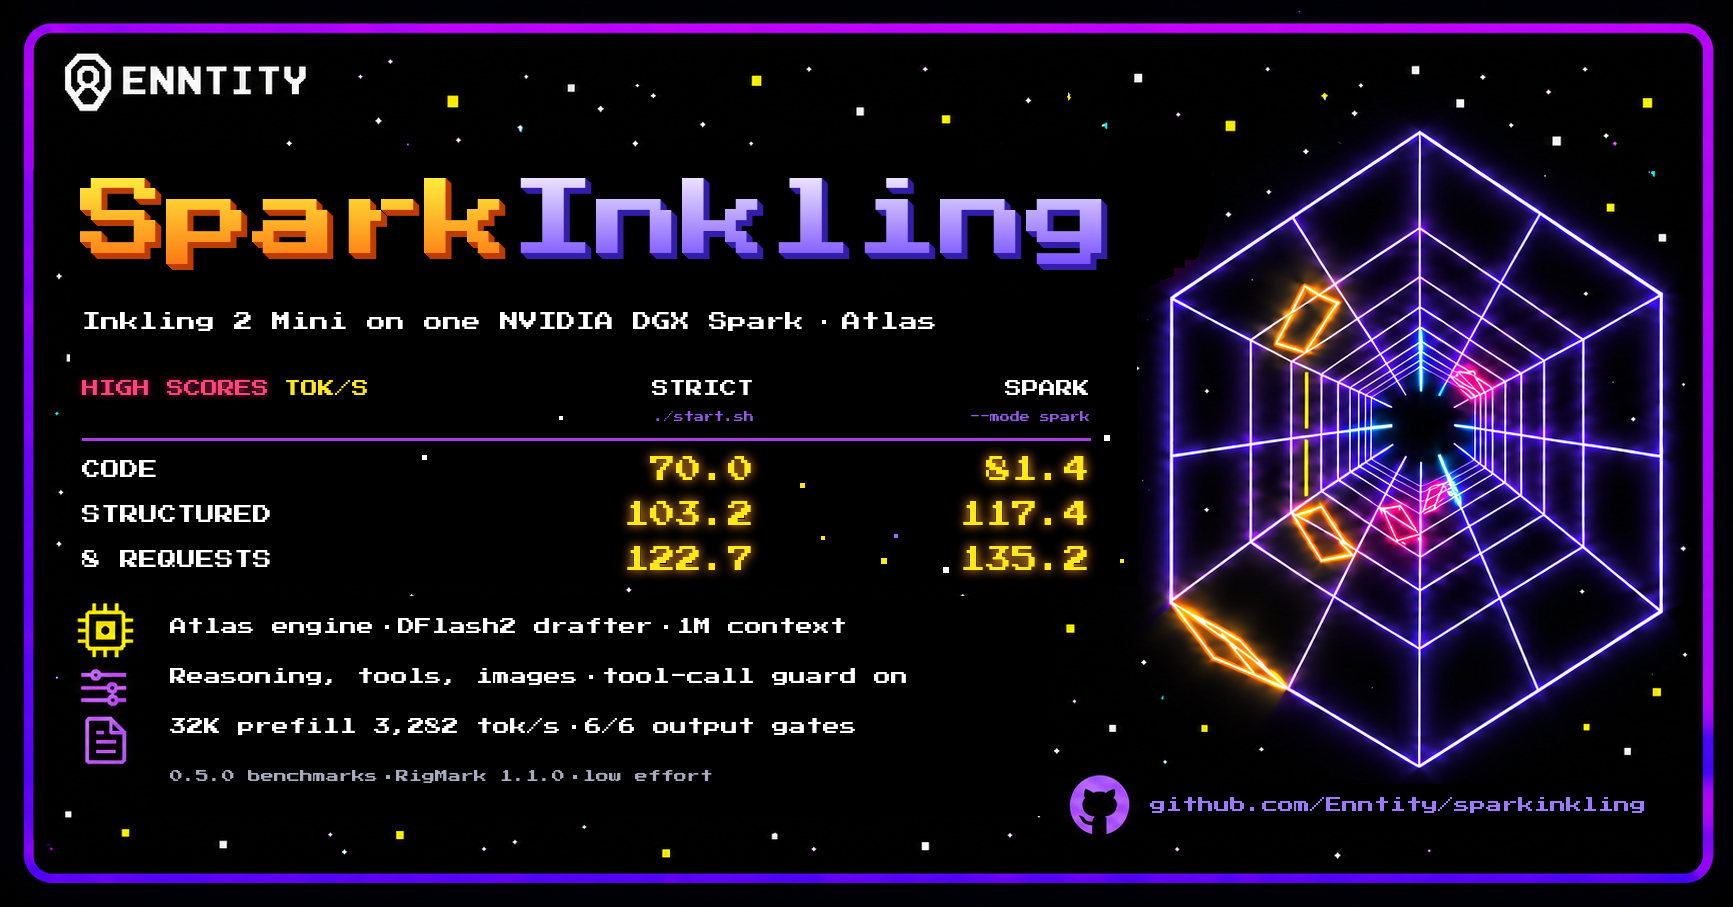
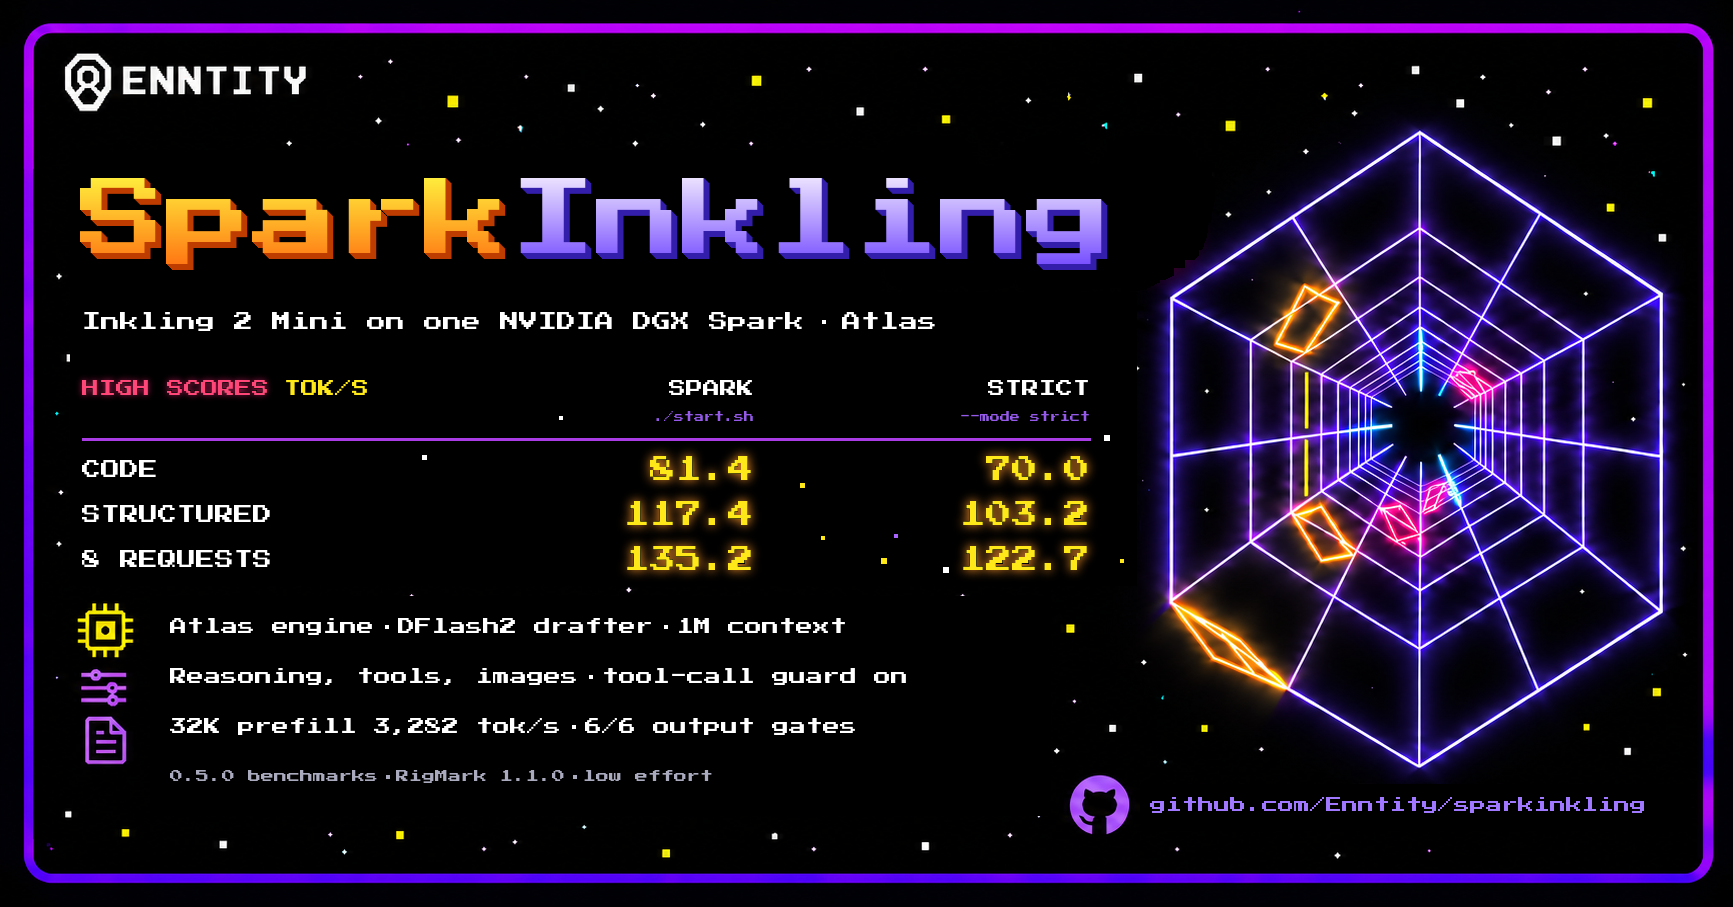
Default to Spark mode
Spark, the calibrated NVFP4 overlay, is the product's preferred stack: it
decodes faster than Strict in every measured cell for a KL of 0.0081. Strict
was the default only because the overlay was unpublished at 0.1.0.

start.sh and the image's entry point (SPARKINKLING_MODE unset) now serve
Spark; --mode strict / MODE=strict serve the checkpoint as shipped. The
launcher's check for an unpublished overlay is gone (it is pinned). README,
MODES, the manual install, the bench and reproduce commands and the cards
lead with Spark; the cards are re-rendered with Spark in the first column.

diff --git a/install/test_launch.py b/install/test_launch.py
@@ -86,8 +86,8 @@ class Launch(unittest.TestCase):
                 launch(**bad)
 
     def test_modes(self):
-        self.assertEqual(launch()[1]['SPARKINKLING_MODE'], 'strict')  # the default
-        self.assertEqual(launch(SPARKINKLING_MODE='spark')[1]['SPARKINKLING_MODE'], 'spark')
+        self.assertEqual(launch()[1]['SPARKINKLING_MODE'], 'spark')  # the default
+        self.assertEqual(launch(SPARKINKLING_MODE='strict')[1]['SPARKINKLING_MODE'], 'strict')
         with self.assertRaises(ValueError):
             launch(SPARKINKLING_MODE='fast')
 
@@ -101,7 +101,7 @@ class Launch(unittest.TestCase):
             launch(SPARKINKLING_DRAFTER='dspark')  # removed in 0.5.0
 
     def test_strict_drafts_for_up_to_two_requests(self):
-        argv, env = launch()
+        argv, env = launch(SPARKINKLING_MODE='strict')
         self.assertIn('--dflash', argv)
         self.assertEqual(flag(argv, '--draft-model'), DRAFTER)
         self.assertEqual(flag(argv, '--dflash-gamma'), '8')
@@ -117,7 +117,7 @@ class Launch(unittest.TestCase):
             launch(DRAFTER_PATH='relative/dir')
 
     def test_spark_drafts_alone(self):
-        _, env = launch(SPARKINKLING_MODE='spark')
+        _, env = launch()  # Spark is the default
         self.assertEqual(env['ATLAS_DFLASH_BATCH_DEPTH'], '1:7,1000000:0')
         self.assertEqual(env['ATLAS_DFLASH_ADAPTIVE'], '1')
         self.assertNotIn('ATLAS_DFLASH_ADAPTIVE_MIN', env)  # the engine's 2.0
@@ -241,7 +241,7 @@ class StartScript(unittest.TestCase):
         return result, (root/'calls').read_text() if (root/'calls').exists() else '', checkpoint.resolve()
 
     def test_strict_serves_the_checkpoint_read_only_with_a_memory_cap(self):
-        result, calls, checkpoint = self.run_up(DRAFTER='none')
+        result, calls, checkpoint = self.run_up(MODE='strict', DRAFTER='none')
         self.assertEqual(result.returncode, 0, result.stderr)
         self.assertIn('smoke: 17*23 = 391', result.stdout)
         run = next(line for line in calls.splitlines() if line.startswith('docker run '))
@@ -255,7 +255,7 @@ class StartScript(unittest.TestCase):
         self.assertNotIn('SPARKINKLING_GPU_MEMORY_UTILIZATION', run)
 
     def test_the_utilization_override_reaches_the_container(self):
-        result, calls, _ = self.run_up(GPU_MEMORY_UTILIZATION='0.60', DRAFTER='none')
+        result, calls, _ = self.run_up(MODE='strict', GPU_MEMORY_UTILIZATION='0.60', DRAFTER='none')
         self.assertEqual(result.returncode, 0, result.stderr)
         self.assertIn('-e SPARKINKLING_GPU_MEMORY_UTILIZATION=0.60', calls)
 

diff --git a/docs/assets/make_cards.py b/docs/assets/make_cards.py
@@ -129,15 +129,15 @@ class Card:
 
 PINK = (255, 70, 120)
 # SparkInkling 0.5.0, RigMark 1.1.0, low effort, medians, tok/s
-# (results/2026-11-25-release-0.5.0): label, Strict, Spark.
-SCORES = [("CODE", "70.0", "81.4"), ("STRUCTURED", "103.2", "117.4"), ("8 REQUESTS", "122.7", "135.2")]
+# (results/2026-11-25-release-0.5.0): label, Spark (the default), Strict.
+SCORES = [("CODE", "81.4", "70.0"), ("STRUCTURED", "117.4", "103.2"), ("8 REQUESTS", "135.2", "122.7")]
 
 
 def scores(card, x0, y, k, ky):
     """The high-score table from (x0, y): a row per workload, a column per
     mode with its launch command; k scales the type, ky the leading."""
     head, small, label, num = int(21 * k), int(13 * k), int(23 * k), int(31 * k)
-    cols = [("STRICT", "./start.sh", x0 + int(800 * k)), ("SPARK", "--mode spark", x0 + int(1200 * k))]
+    cols = [("SPARK", "./start.sh", x0 + int(800 * k)), ("STRICT", "--mode strict", x0 + int(1200 * k))]
 
     def right(xr, yy, s, size, color, glow=None):
         card.text((xr - int(card.font(size).getlength(s)), yy), [s], size, color, glow=glow)
@@ -150,10 +150,10 @@ def scores(card, x0, y, k, ky):
     line = y + int(54 * ky)
     card.draw.rectangle((x0, line, cols[-1][2], line + 2), fill=(170, 60, 230))
     card.inked.append((x0, line, cols[-1][2], line + 2))
-    for row, (name, strict, spark) in enumerate(SCORES):
+    for row, (name, spark, strict) in enumerate(SCORES):
         yy = y + int(72 * ky) + row * int(42 * ky)
         card.text((x0, yy + (num - label) // 2), [name], label, WHITE)
-        for value, (_, _, xr) in zip((strict, spark), cols):
+        for value, (_, _, xr) in zip((spark, strict), cols):
             right(xr, yy, value, num, YELLOW, glow=ORANGE)
 
 

diff --git a/install/serve.py b/install/serve.py
@@ -110,9 +110,9 @@ def launch(environ, profile):
     for flag in SPECULATION_FLAGS:
         if _flag_values(args, flag):
             raise ValueError(f'{flag}: speculation is selected with SPARKINKLING_DRAFTER, not the profile')
-    mode = environ.get('SPARKINKLING_MODE', 'strict')
+    mode = environ.get('SPARKINKLING_MODE', 'spark')
     if mode not in MODES:
-        raise ValueError('SPARKINKLING_MODE must be strict or spark')
+        raise ValueError('SPARKINKLING_MODE must be spark or strict')
     drafter = environ.get('SPARKINKLING_DRAFTER', 'dflash2')
     if drafter not in DRAFTERS:
         raise ValueError(f'SPARKINKLING_DRAFTER must be one of {", ".join(DRAFTERS)}')

diff --git a/install/test_version.py b/install/test_version.py
@@ -68,7 +68,7 @@ class VersionQueries(unittest.TestCase):
     def test_bad_launch_options_fail_before_side_effects(self):
         pin = json.loads((HERE/'checkpoint.json').read_text())
         cases = [({'GPU_MEMORY_UTILIZATION': '0.95'}, 'GPU_MEMORY_UTILIZATION'),
-                 ({'MODE': 'fast'}, 'strict or spark'),
+                 ({'MODE': 'fast'}, 'spark or strict'),
                  ({'DRAFTER': 'eagle'}, 'DRAFTER'),
                  ({'PREFIX_CACHE_DIR': '/srv/pc'}, 'PREFIX_CACHE_DIR and PREFIX_CACHE_GB were removed in 0.5.0'),
                  ({'DRAFTER': 'eagle'}, 'DRAFTER must be dflash2 or none'),

diff --git a/README.md b/README.md
@@ -1,6 +1,6 @@
 <!-- SPDX-License-Identifier: AGPL-3.0-only -->
 <p align="center">
-  <img src="docs/assets/banner.png" alt="SparkInkling: Inkling 2 Mini on one NVIDIA DGX Spark with the Atlas engine. High scores in tokens per second, Strict (./start.sh) and Spark (--mode spark): code 70.0 and 81.4, structured output 103.2 and 117.4, eight requests 122.7 and 135.2. 1M-token context, 6 of 6 output gates. SparkInkling 0.5.0, RigMark 1.1.0, low effort." width="100%">
+  <img src="docs/assets/banner.png" alt="SparkInkling: Inkling 2 Mini on one NVIDIA DGX Spark with the Atlas engine. High scores in tokens per second, Spark (./start.sh, the default) and Strict (--mode strict): code 81.4 and 70.0, structured output 117.4 and 103.2, eight requests 135.2 and 122.7. 1M-token context, 6 of 6 output gates. SparkInkling 0.5.0, RigMark 1.1.0, low effort." width="100%">
 </p>
 
 # SparkInkling
@@ -13,8 +13,9 @@ on one NVIDIA DGX Spark, served by the [Atlas](https://github.com/Atlas-Inf/atla
 engine with an OpenAI-compatible API, image input, reasoning and tool calls.
 
 0.5.0 drafts with incoai's DFlash2 drafter and serves 1,048,576-token
-requests. Against 0.4.2, one request decodes code 7% faster in Strict and 5%
-in Spark, structured output 11% and 13%, and Strict prose 12%; one short
+requests. Spark mode, SparkInkling's calibrated NVFP4 overlay, is the
+default. Against 0.4.2, one request decodes code 5% faster in Spark and 7% in
+Strict, structured output 13% and 11%, and Strict prose 12%; one short
 request is 9-21% faster, and prefill and two to eight requests are level.
 The 40 sliding-window layer visits now keep only their last 1,024 tokens, so
 a token of context costs 32 KiB instead of 192 KiB: the default profile's
@@ -38,17 +39,18 @@ MXFP8 experts and BF16 everything else, plus a bundled DSpark draft model.
 
 SparkInkling serves text and images. Video is not supported.
 
-## Strict and Spark modes
+## Spark and Strict modes
 
-| | Strict (default) | Spark |
+| | Spark (default) | Strict |
 |---|---|---|
-| Weights | The checkpoint as shipped: NVFP4 experts in layers 0-19, MXFP8 experts in 20-23, BF16 attention, router and vocabulary head | Strict plus a calibrated NVFP4 overlay for the attention projections, the vocabulary head and the experts of layers 20-23 |
-| Start | `./start.sh` (or `--mode strict`) | `./start.sh --mode spark` |
-| Extra download | none | [`Enntity/Inkling-2-Mini-Spark-NVFP4`](https://huggingface.co/Enntity/Inkling-2-Mini-Spark-NVFP4), 2.9 GB |
-| Fidelity | the checkpoint's own numerics | KL 0.0081 to Strict's weights (97.0% top-1 agreement, 224 held-out documents) |
+| Weights | The checkpoint plus a calibrated NVFP4 overlay for the attention projections, the vocabulary head and the experts of layers 20-23 | The checkpoint as shipped: NVFP4 experts in layers 0-19, MXFP8 experts in 20-23, BF16 attention, router and vocabulary head |
+| Start | `./start.sh` (or `--mode spark`) | `./start.sh --mode strict` |
+| Extra download | [`Enntity/Inkling-2-Mini-Spark-NVFP4`](https://huggingface.co/Enntity/Inkling-2-Mini-Spark-NVFP4), 2.9 GB | none |
+| Fidelity | KL 0.0081 to Strict's weights (97.0% top-1 agreement, 224 held-out documents) | the checkpoint's own numerics |
 
-Spark reads about half the bytes a token reads in Strict. [The modes in
-detail](docs/MODES.md).
+Spark reads about half the bytes a token reads in Strict and decodes faster
+in every measured cell. Strict is there when you want the checkpoint's own
+numerics. [The modes in detail](docs/MODES.md).
 
 ## Performance
 
@@ -57,15 +59,15 @@ Spark, the default profile and drafter, against 0.4.2 and vLLM's own Inkling 2
 Mini image on the same Spark:
 [the result, with every receipt](results/2026-11-25-release-0.5.0/RESULT.md).
 
-| | Strict | Spark | Strict 0.4.2 | Spark 0.4.2 | vLLM | vLLM + DSpark |
+| | Spark | Strict | Spark 0.4.2 | Strict 0.4.2 | vLLM | vLLM + DSpark |
 |---|---:|---:|---:|---:|---:|---:|
-| Code decode, tok/s | 70.0 | **81.4** | 65.2 | 77.5 | 35.1 | 69.8 |
-| Prose decode | 39.6 | **56.1** | 35.3 | 55.7 | 35.6 | 31.2 |
-| Structured decode | 103.2 | **117.4** | 92.6 | 103.6 | 35.6 | 104.3 |
-| 32K cold prefill, tok/s | 3,268 | **3,282** | 3,274 | 3,277 | 2,722 | 2,723 |
-| Short code, C1 / C2 / C4 / C8 aggregate | 46.5 / 62.6 / 85.7 / 122.7 | **58.8 / 77.8 / 103.5** / 135.2 | 41.3 / 63.1 / 85.0 / 120.7 | 53.9 / 77.7 / 105.8 / 135.4 | 35.1 / 54.0 / 86.6 / 122.4 | 43.4 / 60.9 / 94.7 / **144.0** |
-| Short prose, C1 / C4 / C8 aggregate | 44.6 / 84.3 / 120.0 | **61.4 / 100.9 / 131.7** | 36.9 / 82.7 / 120.6 | 53.2 / 100.4 / 129.1 | 35.3 / 89.2 / 126.4 | 36.0 / 88.2 / 122.1 |
-| 32K prompt sent again, time to first token | 0.16 s | 0.15 s | 0.16 s | 0.16 s | | |
+| Code decode, tok/s | **81.4** | 70.0 | 77.5 | 65.2 | 35.1 | 69.8 |
+| Prose decode | **56.1** | 39.6 | 55.7 | 35.3 | 35.6 | 31.2 |
+| Structured decode | **117.4** | 103.2 | 103.6 | 92.6 | 35.6 | 104.3 |
+| 32K cold prefill, tok/s | **3,282** | 3,268 | 3,277 | 3,274 | 2,722 | 2,723 |
+| Short code, C1 / C2 / C4 / C8 aggregate | **58.8 / 77.8 / 103.5** / 135.2 | 46.5 / 62.6 / 85.7 / 122.7 | 53.9 / 77.7 / 105.8 / 135.4 | 41.3 / 63.1 / 85.0 / 120.7 | 35.1 / 54.0 / 86.6 / 122.4 | 43.4 / 60.9 / 94.7 / **144.0** |
+| Short prose, C1 / C4 / C8 aggregate | **61.4 / 100.9 / 131.7** | 44.6 / 84.3 / 120.0 | 53.2 / 100.4 / 129.1 | 36.9 / 82.7 / 120.6 | 35.3 / 89.2 / 126.4 | 36.0 / 88.2 / 122.1 |
+| 32K prompt sent again, time to first token | 0.15 s | 0.16 s | 0.16 s | 0.16 s | | |
 | Longest request | 1,048,576 | 1,048,576 | 131,072 | 131,072 | | |
 | Basic output gates | 6/6 | 6/6 | 6/6 | 6/6 | 6/6 | 6/6 |
 

diff --git a/docs/MODES.md b/docs/MODES.md
@@ -1,12 +1,13 @@
 <!-- SPDX-License-Identifier: AGPL-3.0-only -->
-# Strict and Spark
+# Spark and Strict
 
 This page records the contract the two modes are built to and how the
 launcher serves them. Their 0.4.2 measurements are in
 [`results/2026-11-23-release-0.4.2`](../results/2026-11-23-release-0.4.2/RESULT.md).
 
-Set `MODE=strict` (the default) or `MODE=spark` in `.env`, or run
-`./start.sh --mode spark`. The container takes `SPARKINKLING_MODE`.
+Set `MODE=spark` (the default) or `MODE=strict` in `.env`, or run
+`./start.sh --mode strict`. The container takes `SPARKINKLING_MODE`, also
+`spark` when unset.
 
 Both modes run on one DGX Spark with BF16 KV and keep the checkpoint's NVFP4
 expert weights in layers 0-19 with their own scales.
@@ -31,7 +32,7 @@ files and the overlay file, with a `model.safetensors.index.json` whose
 `weight_map` is the checkpoint's plus every overlay tensor mapped to
 `spark-nvfp4.safetensors`. Wherever the index maps an overlay tensor, the
 engine serves it in place of the checkpoint's; without one nothing changes.
-`./start.sh --mode spark` builds that directory next to the checkpoint,
+`./start.sh` builds that directory next to the checkpoint,
 `<checkpoint>+spark-nvfp4`, with relative links to the checkpoint's files. It
 checks the overlay's sha256, tensor count and names against
 [`install/checkpoint.json`](../install/checkpoint.json) first, leaves a
@@ -66,11 +67,11 @@ on prose, where fewer drafts are accepted; see the results for both.
 
 ## Choosing a mode
 
-Strict is the default and serves the checkpoint's own numerics: its weights
-as shipped, and in prefill its experts' inputs quantized as its
-`hf_quant_config.json` declares (decode still gives the experts BF16 inputs).
-Spark decodes faster in every measured cell (up to 1.58x on prose) for a KL of
-0.0081 to Strict's weights, prefills exactly as Strict does (both read the
-checkpoint's own tensors there), and both answered the 0.4.2 task probe (30
-arithmetic problems, 10 tool calls) without a miss. Neither mode promises identical text
+Spark is the default. It decodes faster than Strict in every measured cell
+(up to 1.42x on prose in 0.5.0) for a KL of 0.0081 to Strict's weights, and
+prefills exactly as Strict does (both read the checkpoint's own tensors
+there). Strict serves the checkpoint's own numerics: its weights as shipped,
+and in prefill its experts' inputs quantized as its `hf_quant_config.json`
+declares (decode still gives the experts BF16 inputs). Both answered the
+0.5.0 task probe (30 arithmetic problems, 10 tool calls) without a miss. Neither mode promises identical text
 to another engine or numerical reference.

diff --git a/docs/INSTALL-MANUAL.md b/docs/INSTALL-MANUAL.md
@@ -57,9 +57,9 @@ hf download incoai/Inkling-2-Mini-DFlash2 config.json model.safetensors \
 python3 install/check_files.py install/checkpoint.json "$MODEL_ROOT/incoai--Inkling-2-Mini-DFlash2" dflash2
 ```
 
-## 4. Spark mode only: the overlay
+## 4. The Spark overlay
 
-Skip this for Strict.
+Spark is the default mode. Skip this only for Strict.
 
 ```sh
 hf download Enntity/Inkling-2-Mini-Spark-NVFP4 spark-nvfp4.safetensors --revision e9df93dceea2fbf0927caf178104e868452a6292 \
@@ -78,25 +78,27 @@ it is a no-op until a revision changes. See [MODES](MODES.md).
 
 ## 5. Serve
 
-Strict:
+Spark:
 
 ```sh
 ck=$MODEL_ROOT/thinkingmachines--Inkling-2-Mini
+ov=$MODEL_ROOT/Enntity--Inkling-2-Mini-Spark-NVFP4
+sp=$ck+spark-nvfp4
 dr=$MODEL_ROOT/incoai--Inkling-2-Mini-DFlash2
 mkdir -p ~/.cache/atlas-cuda
 docker run -d --name atlas-sparkinkling --network host --ipc host --shm-size 16g --memory 114g \
   --gpus all --security-opt no-new-privileges=true \
-  --mount "type=bind,src=$ck,dst=$ck,readonly" --mount "type=bind,src=$dr,dst=$dr,readonly" \
+  --mount "type=bind,src=$ck,dst=$ck,readonly" --mount "type=bind,src=$ov,dst=$ov,readonly" \
+  --mount "type=bind,src=$sp,dst=$sp,readonly" --mount "type=bind,src=$dr,dst=$dr,readonly" \
   --mount "type=bind,src=$HOME/.cache/atlas-cuda,dst=/atlas-cuda-cache" \
-  -e MODEL_PATH="$ck" -e SPARKINKLING_MODE=strict -e DRAFTER_PATH="$dr" -e HF_HUB_OFFLINE=1 \
+  -e MODEL_PATH="$sp" -e SPARKINKLING_MODE=spark -e DRAFTER_PATH="$dr" -e HF_HUB_OFFLINE=1 \
   -e CUDA_CACHE_PATH=/atlas-cuda-cache "$IMAGE"
 until curl -sf http://127.0.0.1:8895/health; do sleep 10; done
 ```
 
-For Spark, mount the overlay directory and the assembled directory too (each
-at its own path, read-only), and pass `MODEL_PATH` = the assembled directory
-and `SPARKINKLING_MODE=spark`. The image refuses a directory that does not
-match its mode.
+For Strict, mount only the checkpoint and the drafter, and pass `MODEL_PATH`
+= the checkpoint and `SPARKINKLING_MODE=strict`. The image refuses a
+directory that does not match its mode.
 
 The image's entry point turns those settings into one engine command:
 

diff --git a/bench/README.md b/bench/README.md
@@ -10,8 +10,8 @@ prefill at 8K and 32K, 1/2/4/8 concurrent requests) and the prose suite
 (decode, 1/4/8 concurrent requests), reasoning low. About ten minutes a mode.
 
 ```sh
-MODE=strict ./start.sh
-RIGMARK=/path/to/rigmark bench/rigmark.sh strict metadata.json out/
+MODE=spark ./start.sh
+RIGMARK=/path/to/rigmark bench/rigmark.sh spark metadata.json out/
 ```
 
 `metadata.json` describes the run (hardware, image tag, drafter, competing

diff --git a/docs/REPRODUCE.md b/docs/REPRODUCE.md
@@ -31,7 +31,7 @@ same two suites with the paths left to you; these are its commands. For each
 mode:
 
 ```sh
-MODE=strict ./start.sh          # then again with MODE=spark
+MODE=spark ./start.sh           # then again with MODE=strict
 cd /path/to/rigmark
 EB='{"chat_template_kwargs":{"reasoning_effort":"low"}}'
 
